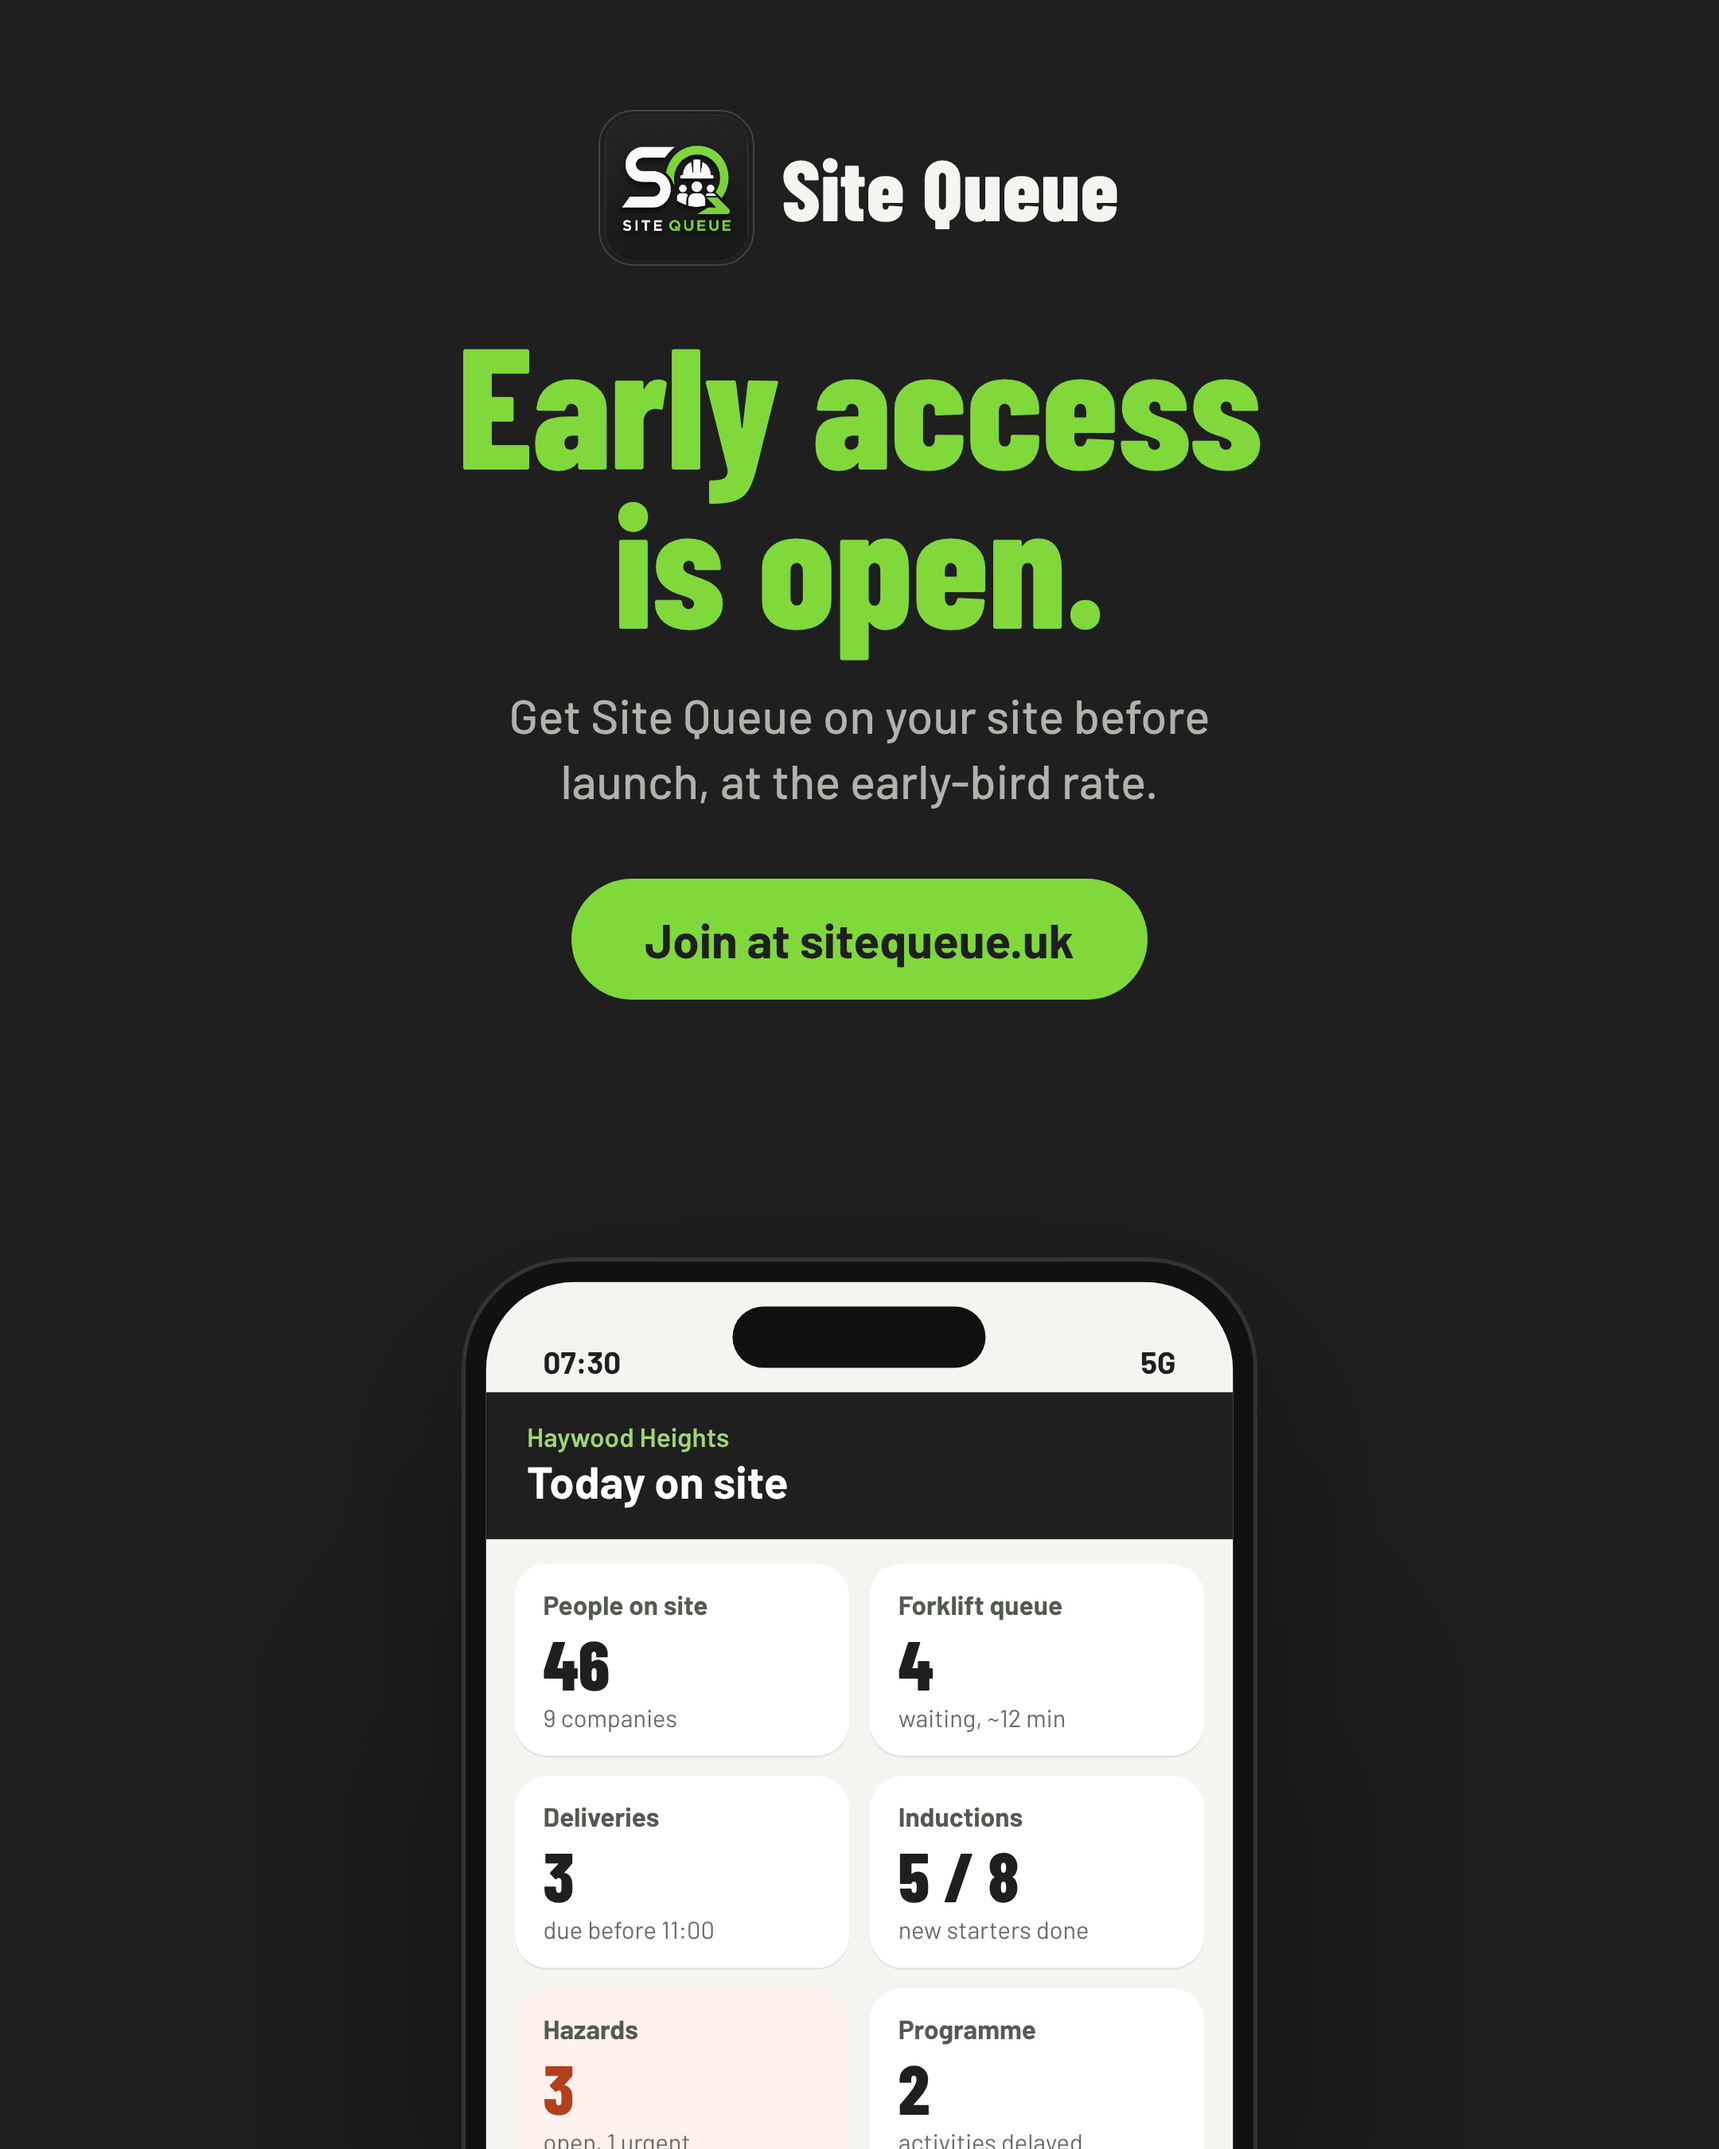
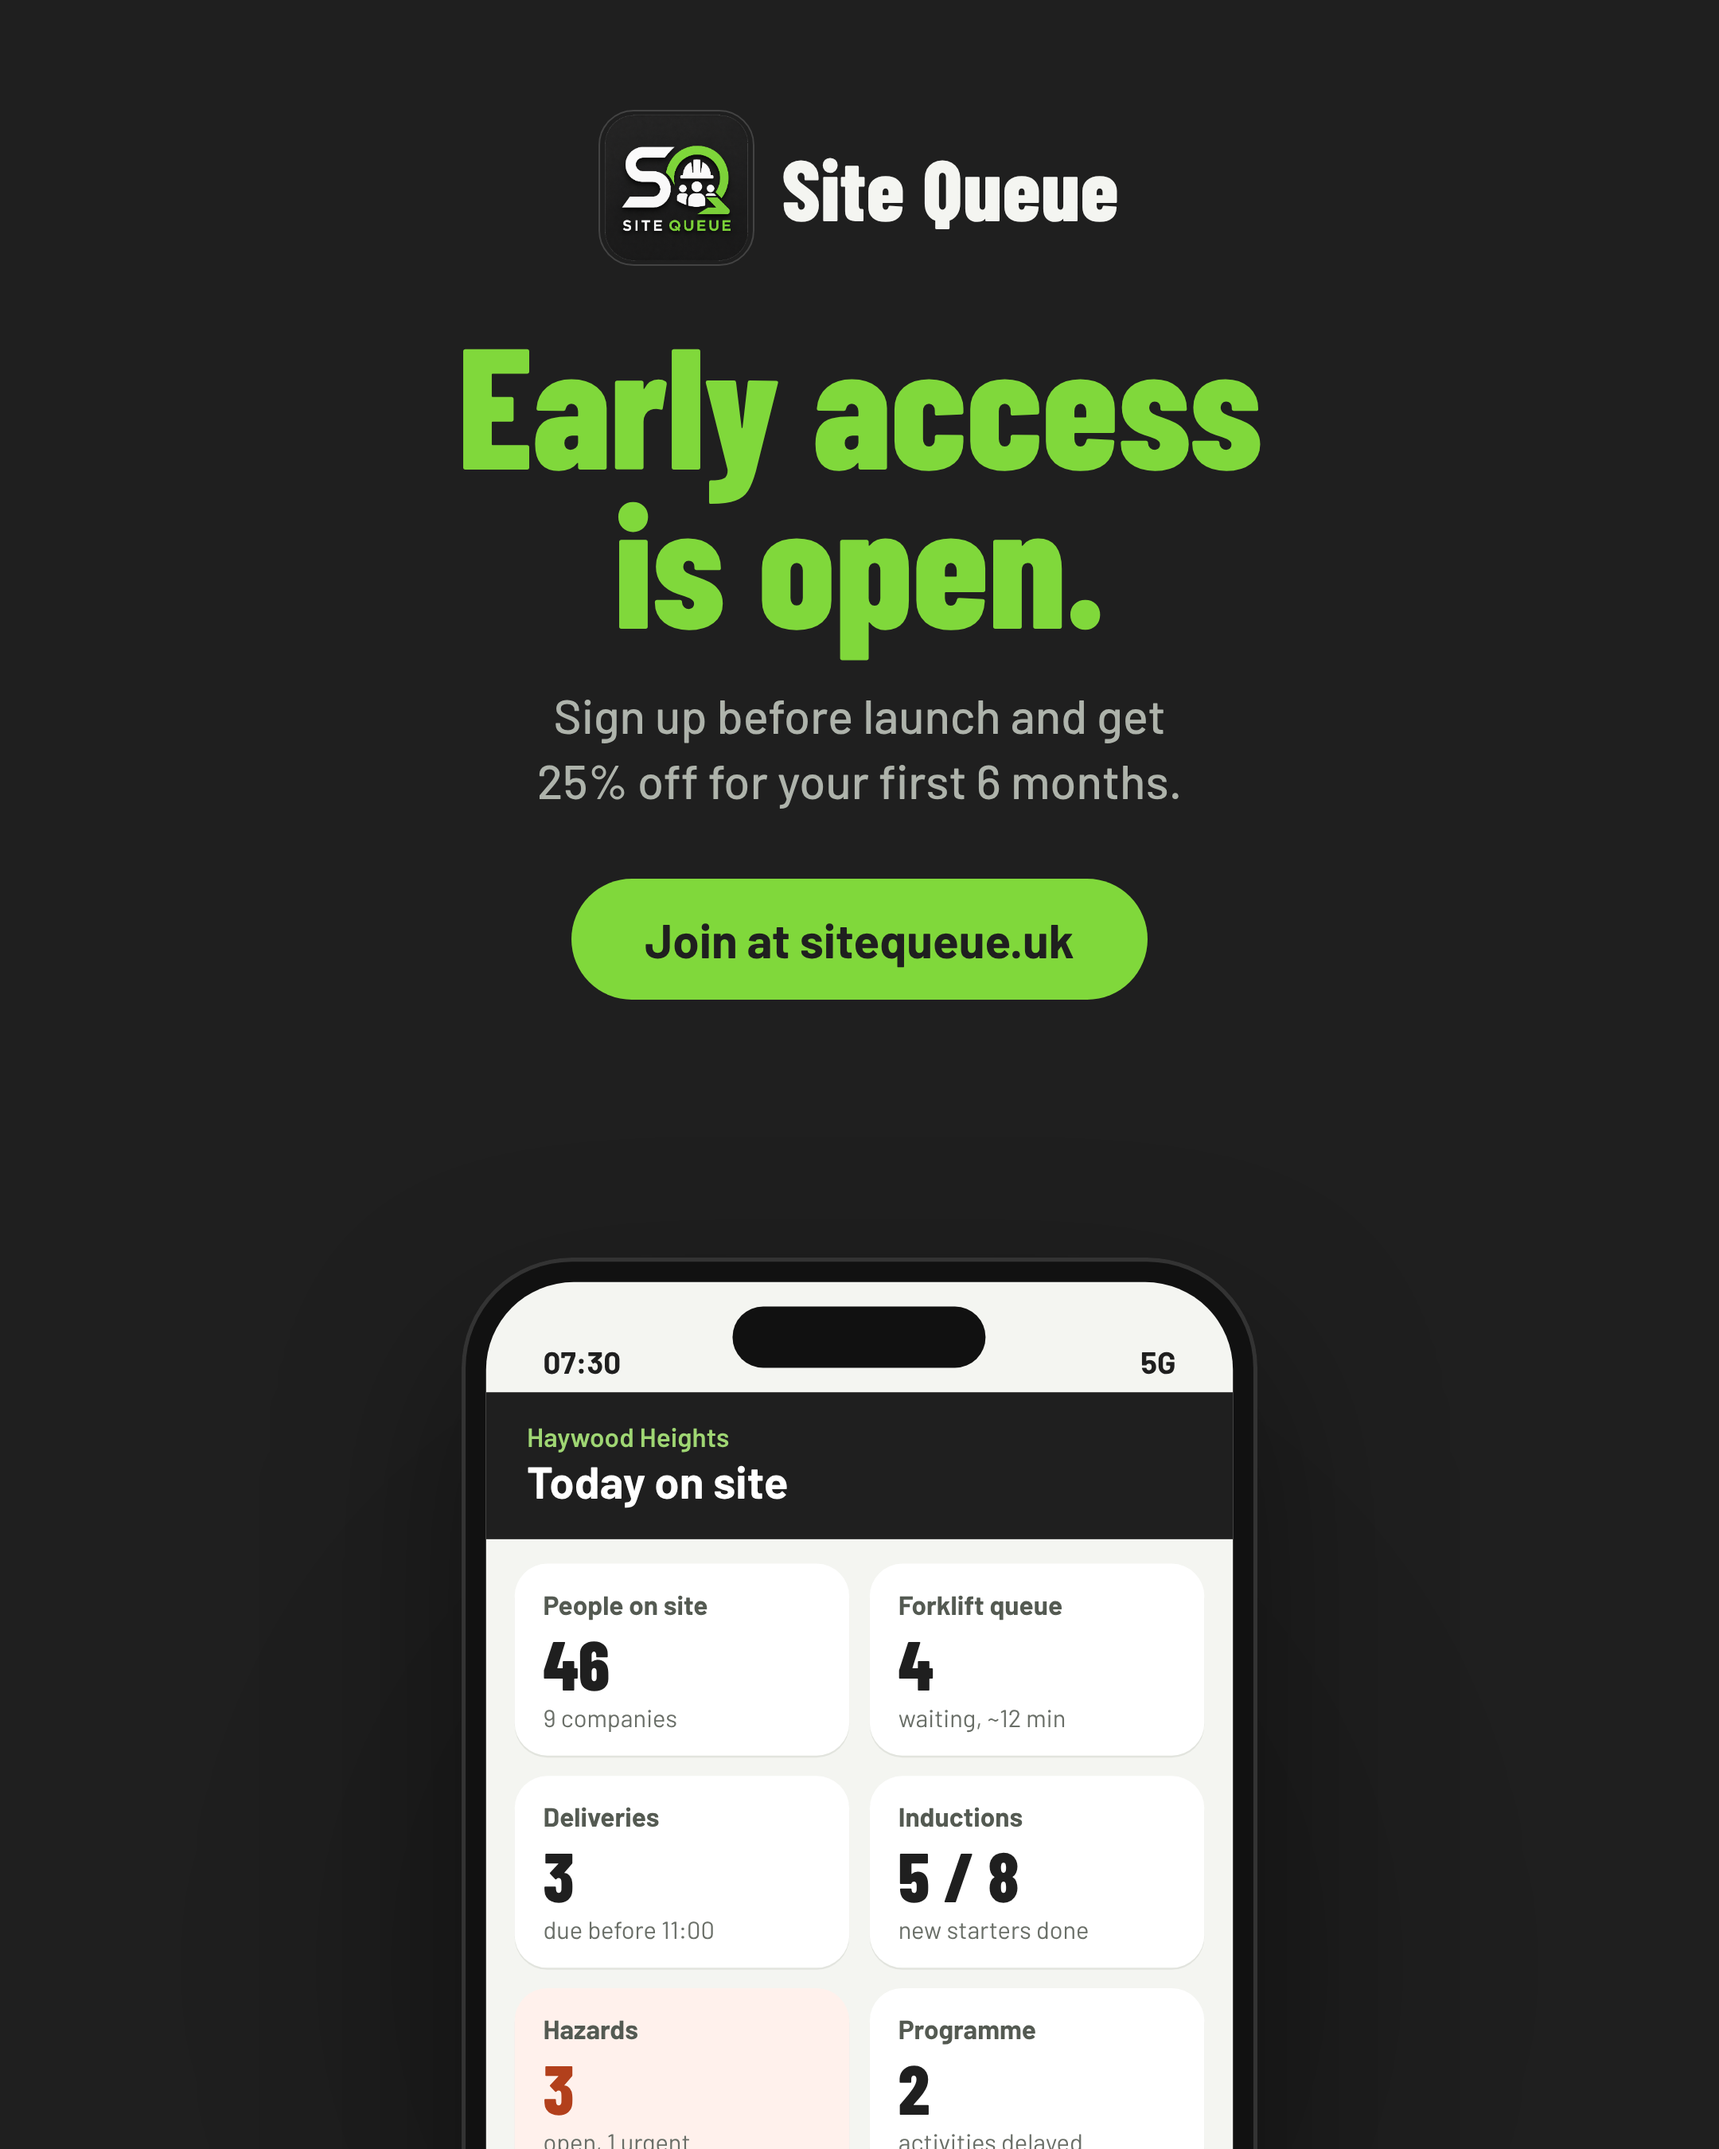
Pricing by site size; early access 25% off for 6 months across pricing and graphics
Claude-Session: https://claude.ai/code/session_01Rq6TRmCVHtyr6wqHRDQyWQ

Changed region(s): [[0.2792, 0.3111, 0.7134, 0.3733]]

diff --git a/marketing/website/pricing-section.html b/marketing/website/pricing-section.html
@@ -4,7 +4,7 @@
 <meta charset="utf-8">
 <meta name="viewport" content="width=device-width, initial-scale=1">
 <title>Pricing | Site Queue</title>
-<!-- Site Queue pricing section. DRAFT prices from Luke's pricing doc (Nov 2026): confirm before going live.
+<!-- Site Queue pricing section. Prices from Luke (Nov 2026): tiers by site size; plot limits [X]/[Y] still to set.
      Drop the <section> into a WordPress Custom HTML block. Styles are scoped to .sq-pricing. -->
 <link rel="stylesheet" href="https://fonts.googleapis.com/css2?family=Barlow+Condensed:wght@800&family=Barlow:wght@400;500;600;700&display=swap">
 <style>
@@ -45,35 +45,35 @@
 <section class="sq-pricing" id="pricing">
   <div class="wrap">
     <h2>One price per site. Everyone on it.</h2>
-    <p class="lead">Pay per active site, per month. No per-user fees, no setup fee, and every worker on site uses it free.</p>
-    <ul class="ticks"><li>Unlimited users</li><li>No setup fee</li><li>Free for workers</li><li>All core features on every plan</li></ul>
+    <p class="lead">Pay per live site, by the size of the site. No per-user fees, no setup fee, and every worker on site uses it free. When a site finishes, you stop paying.</p>
+    <ul class="ticks"><li>Unlimited users</li><li>No setup fee</li><li>Free for workers</li><li>Every feature on every plan</li></ul>
 
     <div class="plans">
       <div class="plan">
-        <div class="who">Small builders, 1–3 sites</div>
-        <h3>Local</h3>
+        <div class="who">Up to [X] plots</div>
+        <h3>Small site</h3>
         <div class="price">£399</div><div class="per">per site, per month</div>
         <p>Everything Site Queue does: logistics, inductions, programme, drawings, safety, site map and site feed.</p>
         <a class="btn" href="#demo">Book a demo</a>
       </div>
       <div class="plan pop">
-        <div class="who">4–20 sites</div>
-        <h3>Regional</h3>
+        <div class="who">[X]–[Y] plots</div>
+        <h3>Medium site</h3>
         <div class="price">£499</div><div class="per">per site, per month</div>
-        <p>[What's extra on Regional, for example multi-site dashboard, priority support]</p>
+        <p>Everything Site Queue does, sized for a bigger site with more people, plots and data.</p>
         <a class="btn" href="#demo">Book a demo</a>
       </div>
       <div class="plan">
-        <div class="who">20+ sites</div>
-        <h3>National</h3>
+        <div class="who">Over [Y] plots</div>
+        <h3>Large site</h3>
         <div class="price">£599</div><div class="per">per site, per month</div>
-        <p>[What's extra on National, for example account manager, onboarding for every site]</p>
-        <a class="btn" href="#demo">Talk to us</a>
+        <p>Everything Site Queue does, for the biggest developments.</p>
+        <a class="btn" href="#demo">Book a demo</a>
       </div>
     </div>
 
     <div class="extras">
-      <div class="extra"><div><b>Subcontractor companies</b><span>Company dashboard, analytics, reports and snagging for each site you work on.</span></div><div class="amt">£100</div></div>
+      <div class="extra"><div><b>Subcontractor companies</b><span>Company dashboard, analytics, reports and snagging. Only pay for the sites you're on, and it stops when the job's done.</span></div><div class="amt">£100</div></div>
       <div class="extra"><div><b>Tradespeople, drivers, labourers, operators</b><span>Join any site with its code.</span></div><div class="amt">Free</div></div>
     </div>
 
@@ -82,7 +82,7 @@
       <a href="/what-site-queue-replaces/">See the breakdown</a>
     </div>
 
-    <div class="early">Early access: [early-bird offer, for example 25% off your first year] when you sign up before launch. <a href="#demo" style="color:#2E5A14">Join early access</a></div>
+    <div class="early">Early access: <b>25% off for your first 6 months</b> when you sign up before launch. <a href="#demo" style="color:#2E5A14">Join early access</a></div>
 
     <p class="small">Prices exclude VAT. Subcontractor price is per main contractor site or managed site.</p>
   </div>

diff --git a/marketing/source/graphics2.js b/marketing/source/graphics2.js
@@ -25,7 +25,7 @@ D['og-image'] = { w: 1200, h: 630, cls: 'on-char', html: `
 
 D['email-header'] = { w: 1200, h: 400, cls: 'on-lime', html: `
   <img class="tile abs" src="${K.LOGO}" style="left:64px;top:52px;width:80px">
-  ${K.stack(64, 168, 640, [H(84, 'Early access is open'), P(22, 'Get Site Queue on your site before launch, at an early-bird rate.', DG, 600)], 18)}
+  ${K.stack(64, 168, 640, [H(84, 'Early access is open'), P(22, 'Sign up before launch for 25% off your first 6 months.', DG, 600)], 18)}
   ${K.phone(850, 36, 290, K.phoneHome(), 'rotate(5deg)')}` };
 
 const post = (cls, html) => ({ w: 1080, h: 1080, cls, html });
@@ -59,7 +59,7 @@ D['post-09-safety'] = split('on-lime', 'Help, found in seconds.', 'One tap alert
 D['post-10-site-feed'] = split('on-char', 'One noticeboard for the whole site.', 'Updates, photos and video in one place instead of six group chats. Only people inducted on the site can post.', K.phoneFeed(), 88);
 
 D['post-11-early-access'] = post('on-char', `${brand(true)}
-  ${K.stack(68, 210, 940, [H(200, 'Early access is open.', '#80D83B'), P(30, 'Get Site Queue on your site before anyone else.<br>Early-bird pricing if you join before launch.<br>A direct line to the founder.', '#D9DCD5')], 44)}
+  ${K.stack(68, 210, 940, [H(200, 'Early access is open.', '#80D83B'), P(30, 'Get Site Queue on your site before anyone else.<br>25% off for 6 months if you join before launch.<br>A direct line to the founder.', '#D9DCD5')], 44)}
   <div class="abs" style="left:74px;bottom:72px;font-size:26px;font-weight:700;color:var(--lime)">Join the list at sitequeue.uk</div>`);
 D['post-12-advertisers'] = split('on-lime', 'Your brand, on site.', 'Reach the trades and site managers ordering materials and plant. Choose the sites, pick the dates, pay per placement.', K.phoneAdvert());
 

diff --git a/marketing/source/assets2.js b/marketing/source/assets2.js
@@ -38,7 +38,7 @@ body{width:794px;height:1123px;background:#FBFBF8;color:#1F1F1F}
   <div class="roles">${['Main contractors', 'Site and project managers', 'Contracts managers', 'Subcontractors and trades', 'Forklift and delivery drivers', 'Labour and plant operators'].map(r => `<span>${r}</span>`).join('')}</div>
 </div>
 <div class="abs on-lime" style="left:48px;right:48px;bottom:44px;border-radius:14px;padding:22px 26px;display:flex;justify-content:space-between;align-items:center;gap:24px">
-  <div><div class="d" style="font-size:34px">Get early access</div><div style="font-size:13.5px;font-weight:600;color:#2E5A14;margin-top:6px;max-width:400px;line-height:1.45">Join the list for early-bird pricing before the 2027 launch, and a direct line to the founder.</div></div>
+  <div><div class="d" style="font-size:34px">Get early access</div><div style="font-size:13.5px;font-weight:600;color:#2E5A14;margin-top:6px;max-width:400px;line-height:1.45">Sign up before the 2027 launch for 25% off your first 6 months, and a direct line to the founder.</div></div>
   <div style="text-align:right;font-weight:700;font-size:15px;line-height:1.5">sitequeue.uk<br><span style="font-weight:600;color:#2E5A14">[contact email]</span></div>
 </div>
 <div class="abs" style="right:48px;bottom:18px;font-size:9px;font-weight:600;color:#9A9F98;letter-spacing:.02em">Design by SB Media</div>`);

diff --git a/marketing/source/series.js b/marketing/source/series.js
@@ -63,7 +63,7 @@ P['04-value'] = { theme: 'con', html: `<body style="background:#ECEDE8;color:#1F
 P['05-early-access'] = { theme: 'char', html: `<body class="dk" style="background:#1F1F1F;color:#F4F5F1">
   <div class="top">${lock('#F4F5F1')}
     <div class="h" style="color:#80D83B">Early access<br>is open.</div>
-    <div class="s" style="color:#AEB3AB">Get Site Queue on your site before launch, at the early-bird rate.</div>
+    <div class="s" style="color:#AEB3AB">Sign up before launch and get 25% off for your first 6 months.</div>
     <div style="margin-top:40px;background:#80D83B;color:#1F1F1F;border-radius:999px;padding:20px 46px;font-size:30px;font-weight:700">Join at sitequeue.uk</div></div>
   ${hero(K.phoneHome(), 790, 500)}
   </body>` };
